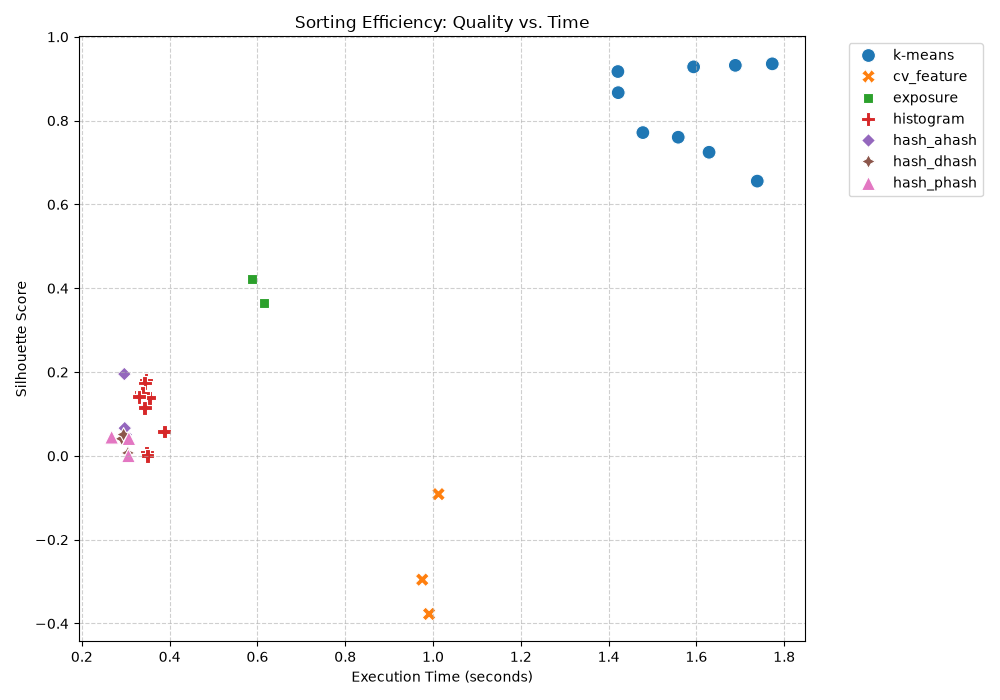
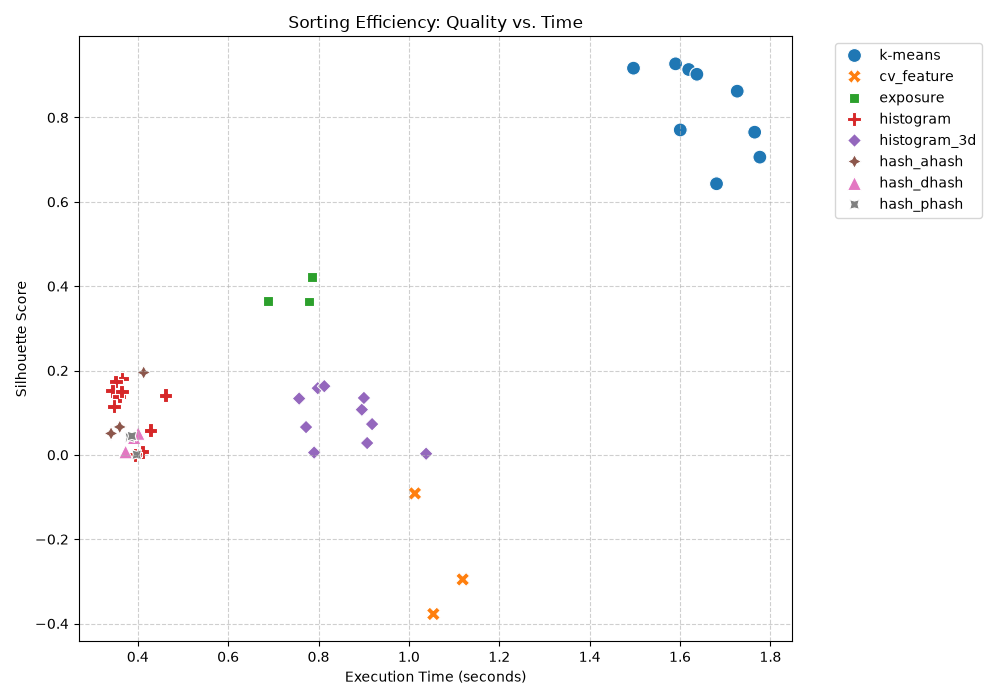
3d histogram sorting, ineffective

diff --git a/histogram_sorter_3d.py b/histogram_sorter_3d.py
@@ -1,0 +1,108 @@
+import logging
+import numpy as np
+import cv2
+import click
+import multiprocessing as mp
+from pathlib import Path
+from framework import (
+    BaseFeatureExtractor, 
+    AgglomerativeClusterer,
+    MAX_ANALYSIS_SIZE,
+    common_options,
+    run_sorting_pipeline
+)
+
+# --- Constants ---
+DEFAULT_BINS = 8  # 8x8x8 = 512 dimensions
+
+# --- Logging Setup ---
+logger = logging.getLogger("color-sorter")
+
+# --- Implementations ---
+
+class Histogram3DExtractor(BaseFeatureExtractor):
+    """
+    Extracts a 3D color histogram in CIELAB space.
+    Uses luminance weighting to reduce the influence of extreme shadows and highlights.
+    """
+    def __init__(self, bins: int = DEFAULT_BINS):
+        self.bins = bins
+
+    def get_centroid_name(self, centroid: np.ndarray) -> str:
+        return "3d_distribution"
+
+    def extract(self, image: np.ndarray) -> np.ndarray:
+        # 1. Fast Resize
+        h, w = image.shape[:2]
+        if max(h, w) > MAX_ANALYSIS_SIZE:
+            scale = MAX_ANALYSIS_SIZE / max(h, w)
+            image = cv2.resize(image, (int(w * scale), int(h * scale)), interpolation=cv2.INTER_AREA)
+        
+        # 2. Convert to Lab color space
+        # image is RGB, cv2.cvtColor expects RGB if we use COLOR_RGB2Lab
+        lab = cv2.cvtColor(image, cv2.COLOR_RGB2Lab)
+        
+        # 3. Luminance Weighting
+        # L channel is index 0. Range is typically [0, 255] in OpenCV's 8-bit Lab
+        # We want to down-weight pixels that are too dark (< 30) or too bright (> 220)
+        l_channel = lab[:, :, 0].astype(np.float32)
+        
+        # Create a weight map: 1.0 for mid-tones, tapering off at extremes
+        # Simple linear ramp or Gaussian-like weight
+        weights = np.ones_like(l_channel)
+        weights[l_channel < 30] = np.clip((l_channel[l_channel < 30] / 30.0), 0, 1)
+        weights[l_channel > 220] = np.clip((255.0 - l_channel[l_channel > 220]) / 35.0, 0, 1)
+        
+        # 4. Compute 3D Histogram
+        # Reshape image to (N, 3) and weights to (N,)
+        pixels = lab.reshape(-1, 3).astype(np.float32)
+        pixel_weights = weights.reshape(-1).astype(np.float32)
+        
+        # Define bins for Lab: L[0, 255], a[0, 255], b[0, 255] (OpenCV Lab mapping)
+        bins_range = [[0, 256], [0, 256], [0, 256]]
+        
+        hist, _ = np.histogramdd(
+            pixels, 
+            bins=(self.bins, self.bins, self.bins), 
+            range=bins_range, 
+            weights=pixel_weights
+        )
+        
+        # 5. Flatten and Normalize
+        feature_vector = hist.flatten()
+        
+        # L2 Normalization for Cosine Similarity
+        norm = np.linalg.norm(feature_vector)
+        if norm > 0:
+            feature_vector = feature_vector / norm
+            
+        return feature_vector.astype(np.float32)
+
+# --- CLI Implementation ---
+@click.command()
+@common_options()
+@click.option('--bins', '-b', default=DEFAULT_BINS, type=int, help='Number of bins per Lab channel (total bins = bins^3).')
+@click.option('--threshold', type=float, default=0.5, help='Distance threshold for Agglomerative Clustering.')
+def main(input_dir, output_dir, move, raw, verbose, bins, threshold):
+    """Sort images by their 3D color distribution in Lab space with luminance weighting."""
+    
+    # Strategy Selection
+    extractor = Histogram3DExtractor(bins=bins)
+    
+    # Use Cosine similarity for normalized histograms
+    clusterer = AgglomerativeClusterer(threshold=threshold, metric='cosine')
+
+    run_sorting_pipeline(
+        input_dir=input_dir,
+        output_dir=output_dir,
+        move=move,
+        raw=raw,
+        verbose=verbose,
+        extractor=extractor,
+        clusterer=clusterer,
+        title="3D Lab Histogram Sorting Summary"
+    )
+
+if __name__ == "__main__":
+    mp.set_start_method('spawn', force=True)
+    main()

diff --git a/metrics/evaluator.py b/metrics/evaluator.py
@@ -24,6 +24,7 @@ from cv_feature_sorter import CVFeatureExtractor, ScalingKMeansClusterer
 from exposure_sorter import ExposureExtractor
 from hash_sorter import AHashExtractor, DHashExtractor, PHashExtractor, HammingClusterer
 from histogram_sorter import HistogramExtractor
+from histogram_sorter_3d import Histogram3DExtractor
 
 class SorterRegistry:
     """Registry to map sorter names to their respective components."""
@@ -34,6 +35,7 @@ class SorterRegistry:
         "cv_feature": (CVFeatureExtractor, ScalingKMeansClusterer),
         "exposure": (ExposureExtractor, KMeansClusterer),
         "histogram": (HistogramExtractor, AgglomerativeClusterer),
+        "histogram_3d": (Histogram3DExtractor, AgglomerativeClusterer),
         "hash_ahash": (AHashExtractor, HammingClusterer),
         "hash_dhash": (DHashExtractor, HammingClusterer),
         "hash_phash": (PHashExtractor, HammingClusterer),

diff --git a/metrics/test_rig.py b/metrics/test_rig.py
@@ -27,6 +27,10 @@ EXPERIMENTS = {
         "bins": [8, 16],
         "threshold": [0.1, 0.3, 0.5, 0.7, 0.9]
     },
+    "histogram_3d": {
+        "bins": [8, 16],
+        "threshold": [0.1, 0.3, 0.5, 0.7, 0.9]
+    },
     "hash_ahash": {
         "threshold": [0.1, 0.3, 0.5, 0.7, 0.9]
     },

diff --git a/metrics/TESTING.md b/metrics/TESTING.md
@@ -1,0 +1,69 @@
+# Testing and Metric Collection
+
+This directory contains the tools used to evaluate the performance and quality of different image sorting methods. The testing framework allows for automated parameter sweeps across multiple sorting algorithms to determine the optimal configuration for a given dataset.
+
+## Overview
+
+The testing system consists of two primary components:
+1. **Test Rig (`test_rig.py`)**: A CLI tool that manages experiment execution, parameter sweeps, and result logging.
+2. **Evaluator (`evaluator.py`)**: The core logic that runs a specific sorter configuration in "headless" mode (without moving files) and calculates quantitative metrics.
+
+## How to Run Tests
+
+The `test_rig.py` script uses the `click` library for its command-line interface.
+
+### Example Commands
+
+**Run all configured experiments:**
+```bash
+python metrics/test_rig.py
+```
+
+**Run specific sorters (comma-separated):**
+```bash
+python metrics/test_rig.py --sorters k-means,exposure,histogram_3d
+```
+
+**Specify a custom input directory:**
+```bash
+python metrics/test_rig.py --input /path/to/your/images
+```
+
+**Process RAW files instead of JPGs:**
+```bash
+python metrics/test_rig.py --raw
+```
+
+**Save results to a specific CSV file:**
+```bash
+python metrics/test_rig.py --output-csv my_experiment_results.csv
+```
+
+## Metric Definitions
+
+The following metrics are collected for every parameter combination:
+
+| Metric | Description | Ideal Value |
+| :--- | :--- | :--- |
+| **Silhouette Score** | Measures how similar an image is to its own cluster compared to other clusters. | Higher (closer to 1.0) |
+| **Davies-Bouldin Index** | The average similarity measure of each cluster with its most similar cluster. | Lower (closer to 0.0) |
+| **Balance Std Dev** | The standard deviation of the number of images per cluster. | Lower (indicates more uniform distribution) |
+| **Duration** | Total time taken for feature extraction and clustering. | Lower |
+| **Num Clusters** | The actual number of clusters formed by the algorithm. | Varies by goal |
+| **Images Processed** | Number of images that were successfully analyzed. | Equal to total input images |
+
+## Extending the Framework
+
+### Adding a New Sorter
+To add a new sorting method to the evaluation suite:
+1. Open `metrics/evaluator.py`.
+2. Add the sorter's `Extractor` and `Clusterer` classes to the `SorterRegistry.REGISTRY` dictionary.
+3. Open `metrics/test_rig.py`.
+4. Add a new entry to the `EXPERIMENTS` dictionary defining the parameter sweeps you wish to perform (e.g., different values for `clusters`, `bins`, or `threshold`).
+
+### Modifying Parameters
+Parameters defined in `EXPERIMENTS` are passed to the evaluator, which uses heuristics to distribute them between the `Extractor` and the `Clusterer`. Common parameter names include:
+- `k_colors`: Used by color extractors.
+- `bins`: Used by histogram extractors.
+- `clusters`: Maps to `n_clusters` for the clusterer.
+- `threshold`: Used by distance-based or hash-based clusterers.
